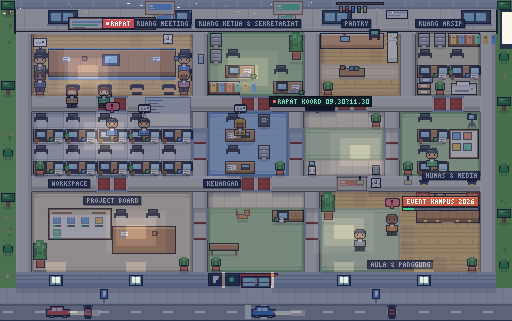
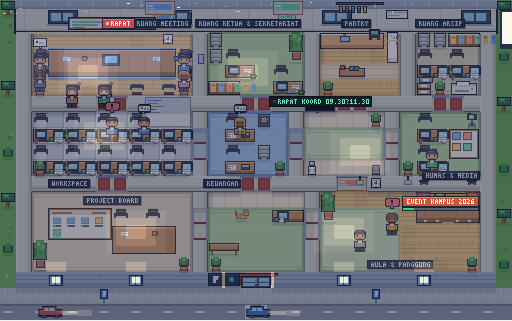
Remove parked scooters from the street (read as unidentified objects at scene scale)

diff --git a/src/features/pixel-office/officeMap.ts b/src/features/pixel-office/officeMap.ts
@@ -844,24 +844,6 @@ export function drawWallClock(ctx: CanvasRenderingContext2D, tileX: number, tile
   rect(ctx, px + 8, py + 8, 2, 1, '#26314b')
 }
 
-/** Skuter parkir di tepi jalan (top-down). */
-export function drawScooter(ctx: CanvasRenderingContext2D, tileX: number, tileY: number) {
-  const px = tileX * TILE
-  const py = tileY * TILE
-  rect(ctx, px + 3, py + 12, 10, 2, 'rgba(32,36,47,0.2)')
-  // wheels
-  rect(ctx, px + 5, py + 1, 6, 3, '#26314b')
-  rect(ctx, px + 5, py + 12, 6, 3, '#26314b')
-  // deck + seat
-  panel(ctx, px + 4, py + 4, 8, 8, '#c9454f')
-  rect(ctx, px + 5, py + 7, 6, 2, '#3a4358')
-  rect(ctx, px + 5, py + 5, 2, 1, '#e07a5f')
-  // handlebar
-  rect(ctx, px + 3, py + 2, 10, 1, '#3a4358')
-  rect(ctx, px + 3, py + 1, 1, 2, '#3a4358')
-  rect(ctx, px + 12, py + 1, 1, 2, '#3a4358')
-}
-
 /** Rambu parkir kecil di trotoar. */
 export function drawParkingSign(ctx: CanvasRenderingContext2D, tileX: number, tileY: number) {
   const px = tileX * TILE

diff --git a/src/features/pixel-office/PixelOfficeScene.tsx b/src/features/pixel-office/PixelOfficeScene.tsx
@@ -58,7 +58,6 @@ import {
   drawReceptionDesk,
   drawRug,
   drawSafe,
-  drawScooter,
   drawSideChairBack,
   drawSign,
   drawStage,
@@ -355,9 +354,7 @@ export function renderStaticLayer(boardStickies: string[], pins: { blocked: numb
   // trees & bushes outside (kept off the north wall face)
   for (const [x, y] of [[0, 0], [31, 0], [0, 5], [31, 6], [0, 12], [31, 13]] as const) drawTree(ctx, x, y)
   for (const [x, y] of [[0, 9], [0, 15], [31, 3], [31, 10], [31, 16]] as const) drawBush(ctx, x, y)
-  // parked scooters + parking signs along the street
-  drawScooter(ctx, 5, 19)
-  drawScooter(ctx, 24, 19)
+  // parking signs along the street
   drawParkingSign(ctx, 6, 18)
   drawParkingSign(ctx, 23, 18)
 
